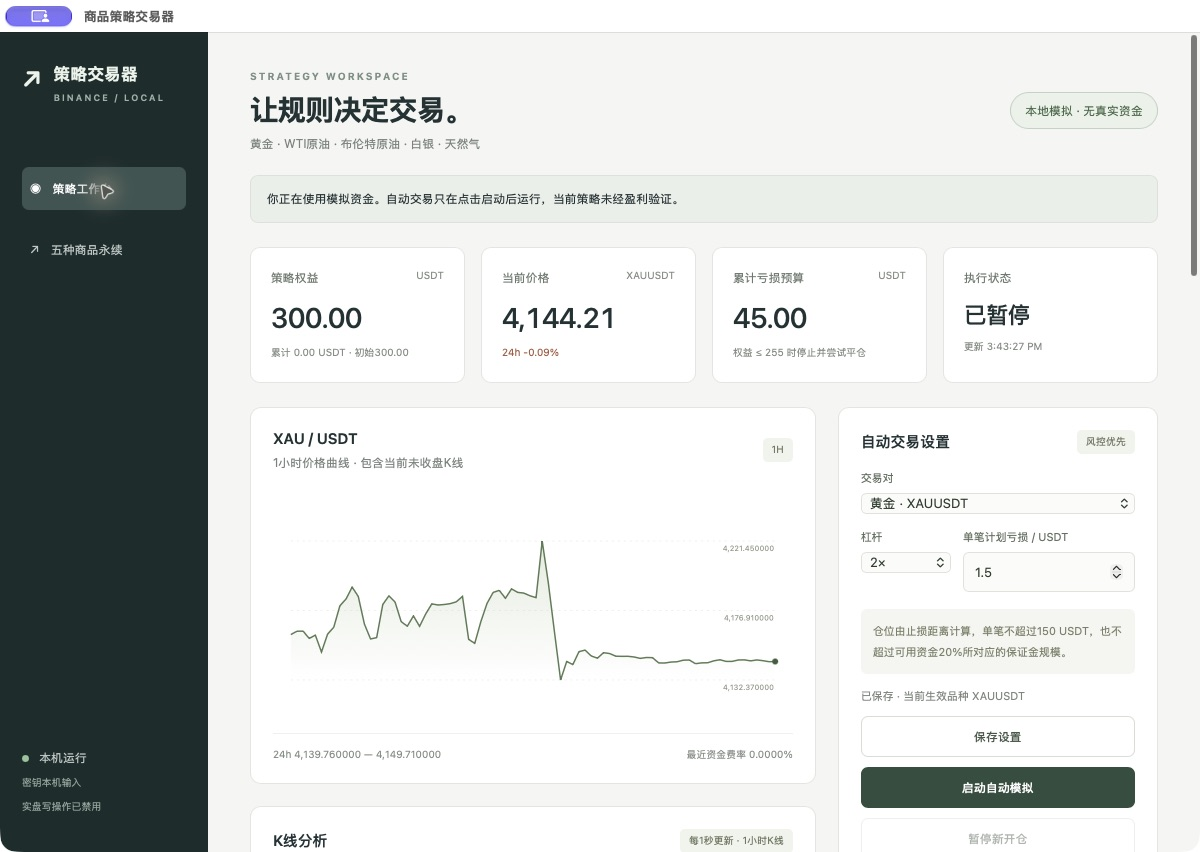
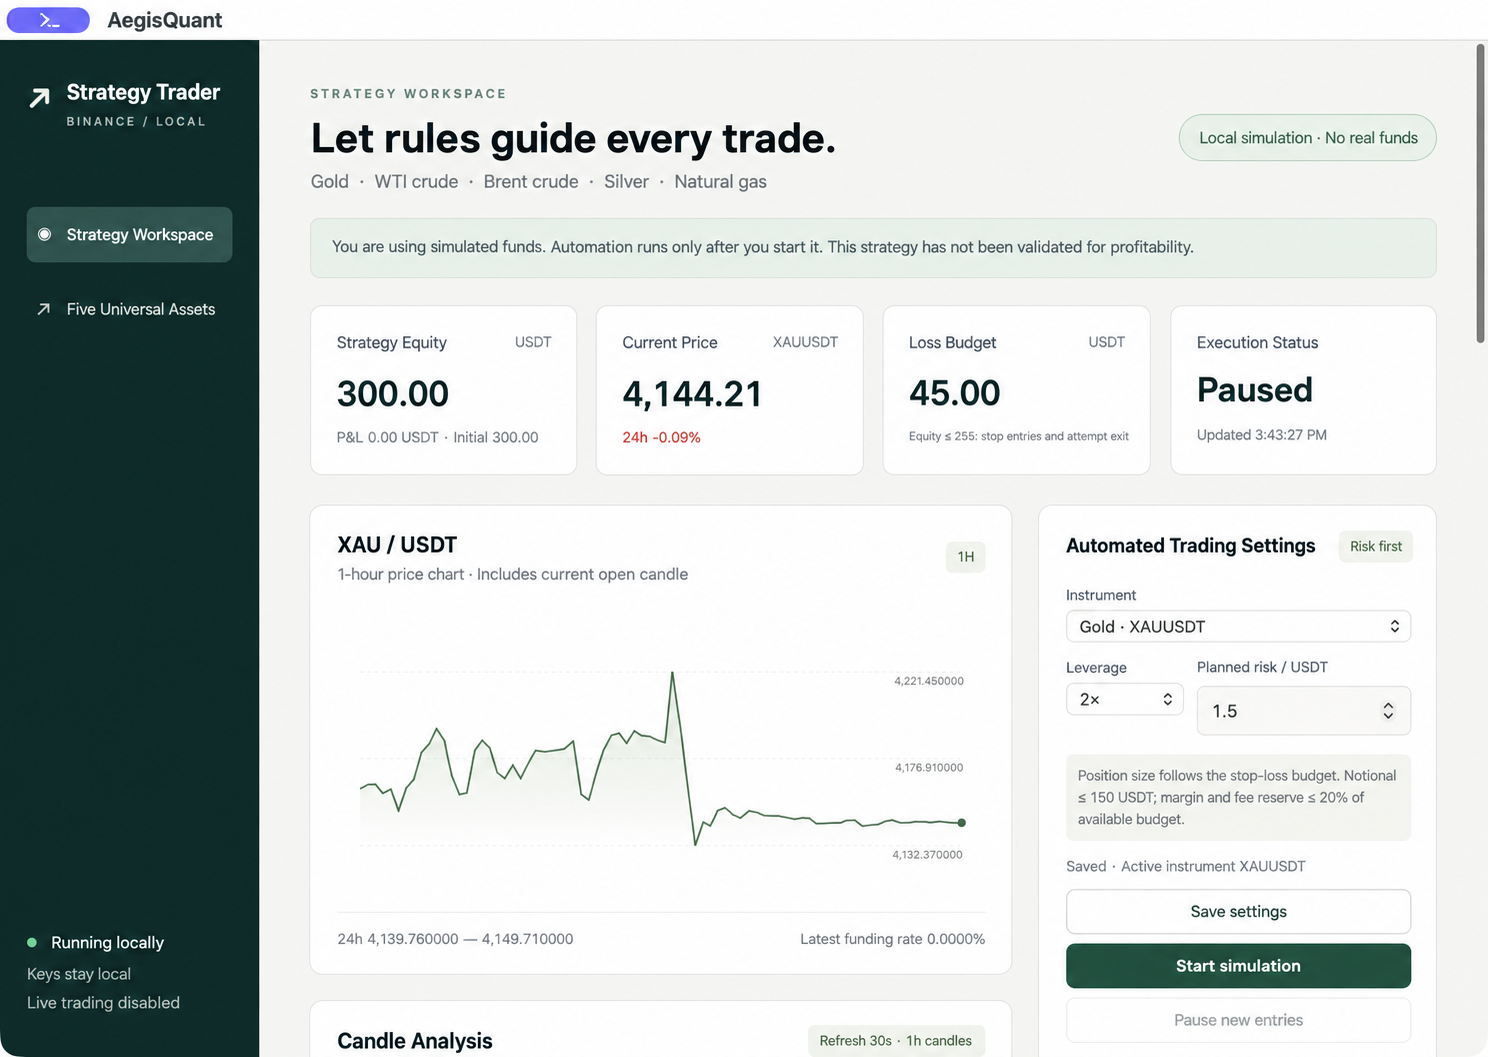
Replace workspace preview with English interface translation

diff --git a/README.md b/README.md
@@ -8,7 +8,7 @@ Quantitative research, simulation, and macOS desktop tools for US stocks, Hong K
 
 ![AegisQuant local simulation workspace](docs/images/strategy-workspace-simulation.png)
 
-Local simulation workspace captured on October 4, 2026, showing the price chart, risk controls, and strategy settings. The displayed 300 USDT is a simulated starting balance; this image is not a live account or a current execution status.
+English-language UI preview translated from a local simulation screenshot captured on October 4, 2026. It illustrates the price chart, risk controls, and strategy settings; the English labels are a presentation translation. The displayed 300 USDT is a simulated starting balance, not a live account or current execution status.
 
 ## Runtime workflow
 

diff --git a/README.zh-CN.md b/README.zh-CN.md
@@ -8,7 +8,7 @@
 
 ![AegisQuant local simulation workspace](docs/images/strategy-workspace-simulation.png)
 
-2026 年 10 月 4 日的本地模拟工作台截图，展示行情图、风控和策略设置。图中 300 USDT 为模拟初始资金，不是真实账户余额，也不代表当前执行状态。
+基于 2026 年 10 月 4 日本地模拟工作台截图翻译的英文界面预览，展示行情图、风控和策略设置；英文标签用于展示翻译。图中 300 USDT 为模拟初始资金，不是真实账户余额，也不代表当前执行状态。
 
 ## 基本运行逻辑
 
